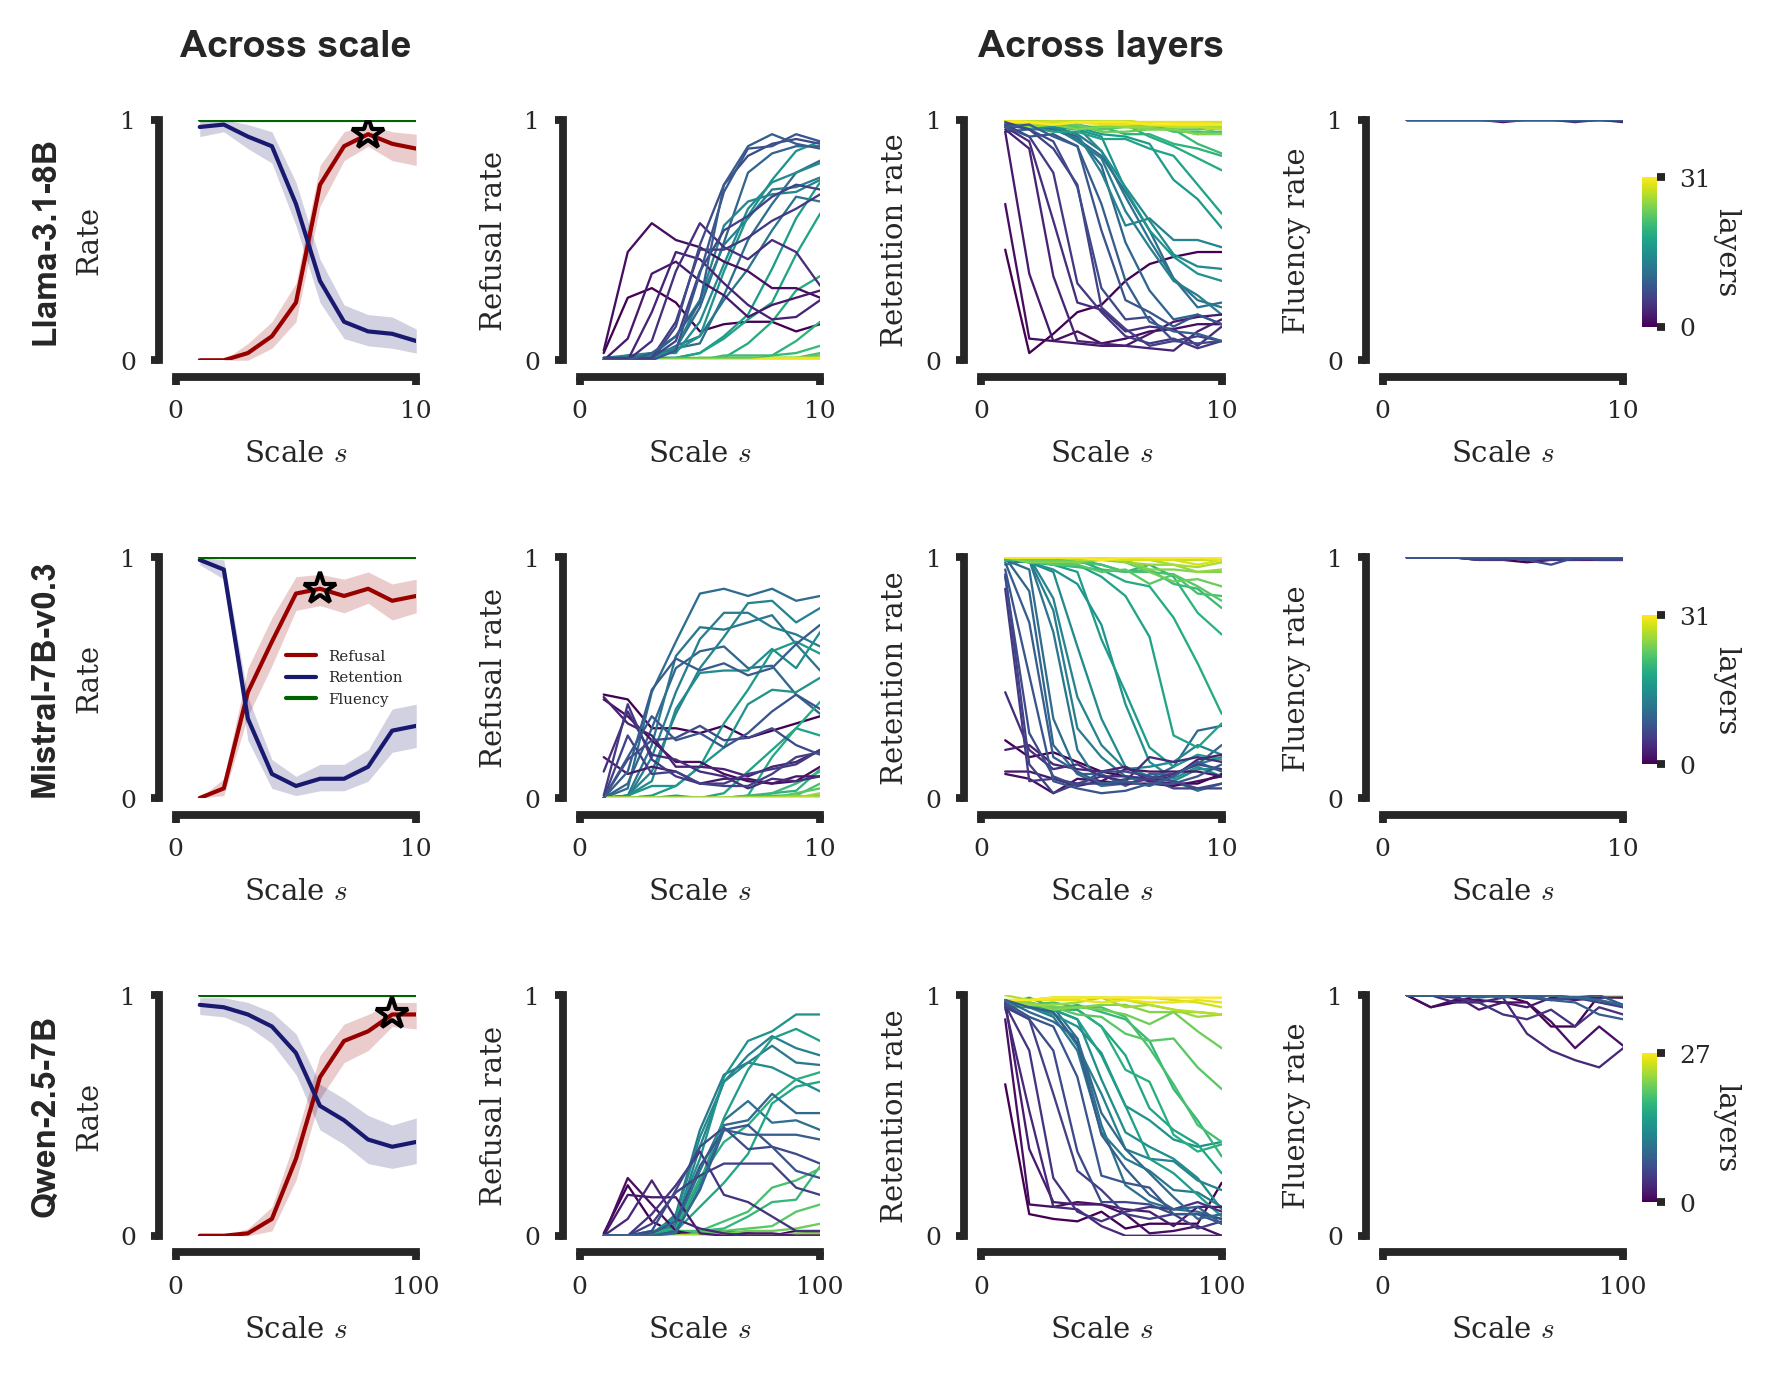
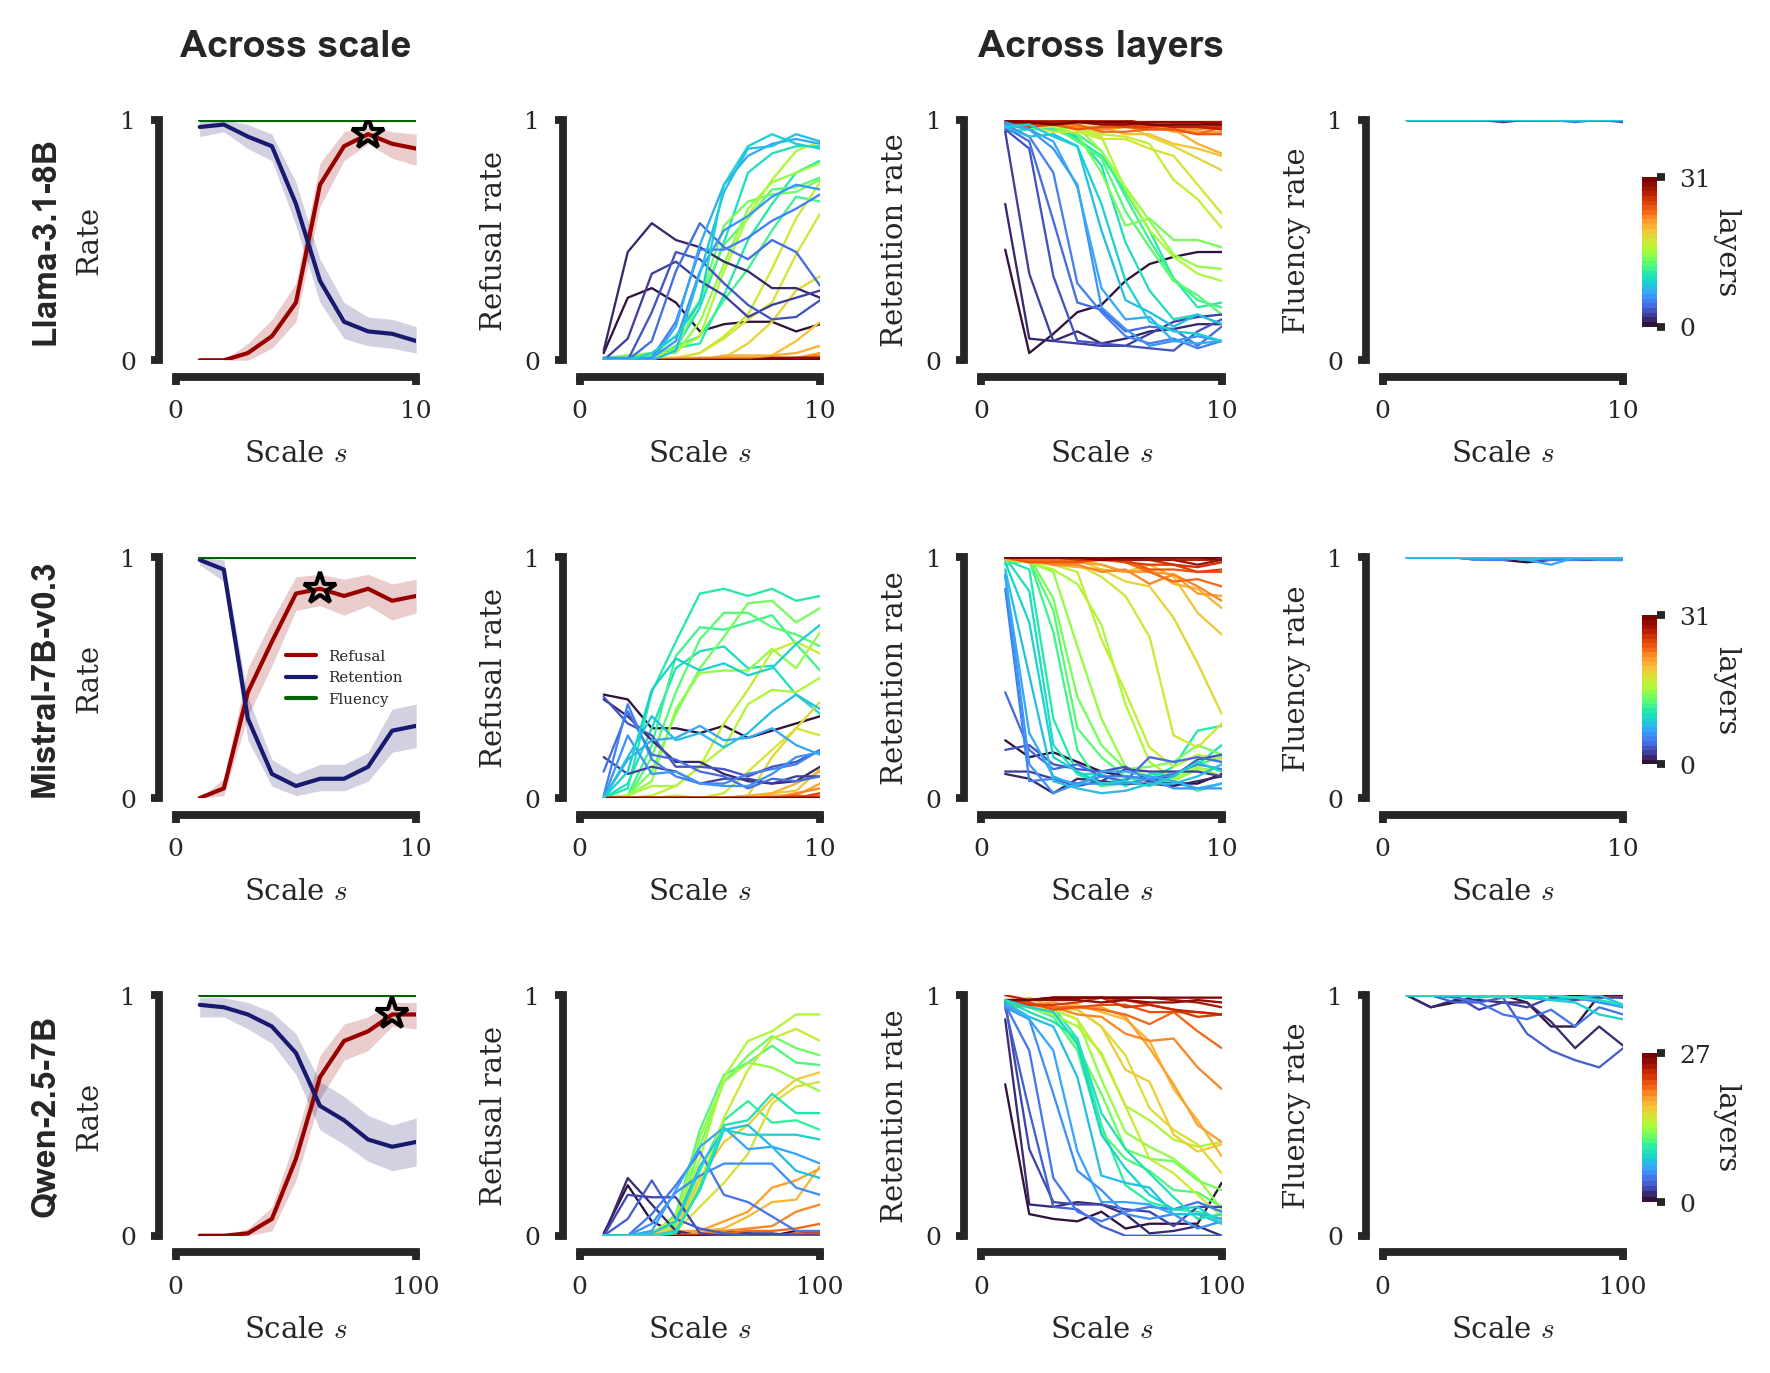
Update publication params figure and table

diff --git a/plot/publication/publish_params.py b/plot/publication/publish_params.py
@@ -8,7 +8,7 @@ from matplotlib.colors import Normalize
 
 from refuse.calibration import select_optimal_config
 
-from ..plot import AXES, AXIS_COLOR, HARMONIC_COLOR, SECONDARY_COLOR, harmonic_refusal_fluency
+from ..plot import AXES, AXIS_COLOR, HARMONIC_COLOR, SECONDARY_COLOR, custom_cmap, harmonic_refusal_fluency
 from ..summary.util import OUT, STORE, result_file, save_figure, setup_summary_style
 
 
@@ -136,7 +136,7 @@ def _write_publish_params(store, out, filename, axes_to_plot, scale_axes, show_h
         csv_path = result_file(store / run_key, "calibration_judged.csv")
         df = _load_calibration(csv_path)
         layer_values = df["source_layer"].map(_layer_value)
-        cmap = plt.get_cmap("viridis")
+        cmap = custom_cmap(int(layer_values.nunique()))
         norm = Normalize(vmin=float(layer_values.min()), vmax=float(layer_values.max()))
 
         _draw_across_scale(
